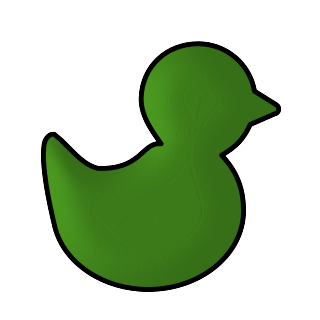
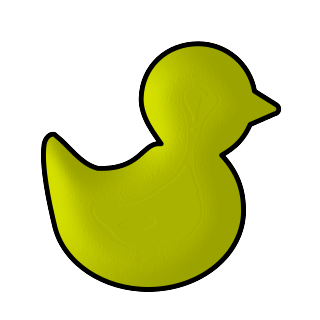
Make the duck yellow

diff --git a/www/index.html b/www/index.html
@@ -107,10 +107,10 @@
         <feDropShadow dx=0 dy=0 stdDeviation=0.1 flood-color="#a2a2a2" flood-opacity=1 />
       </filter>
       <filter id="glowing-duck">
-        <feDropShadow dx=+0.02 dy=+0.02 stdDeviation=0.02 flood-color="#85b435" flood-opacity=0.7 />
-        <feDropShadow dx=+0.02 dy=-0.02 stdDeviation=0.02 flood-color="#85b435" flood-opacity=0.7 />
-        <feDropShadow dx=-0.02 dy=+0.02 stdDeviation=0.02 flood-color="#85b435" flood-opacity=0.7 />
-        <feDropShadow dx=-0.02 dy=-0.02 stdDeviation=0.02 flood-color="#85b435" flood-opacity=0.7 />
+        <feDropShadow dx=+0.02 dy=+0.02 stdDeviation=0.02 flood-color="#98b100" flood-opacity=0.7 />
+        <feDropShadow dx=+0.02 dy=-0.02 stdDeviation=0.02 flood-color="#98b100" flood-opacity=0.7 />
+        <feDropShadow dx=-0.02 dy=+0.02 stdDeviation=0.02 flood-color="#98b100" flood-opacity=0.7 />
+        <feDropShadow dx=-0.02 dy=-0.02 stdDeviation=0.02 flood-color="#98b100" flood-opacity=0.7 />
       </filter>
       <filter id="glowing-steal">
         <!-- TODO: Consider using this quadruple-shadow style in other filters -->

diff --git a/www/main.css b/www/main.css
@@ -371,7 +371,7 @@ body.observer .reserve {
 }
 
 .glowing-duck {
-  filter: saturate(1.7) url(#glowing-duck);
+  filter: saturate(2) url(#glowing-duck);
 }
 .glowing-steal {
   /* `sepia` + `hue-rotate` allows to colorize into a given color (in this case, blue);
